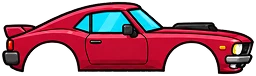
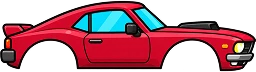
jaya

diff --git a/game.js b/game.js
@@ -232,6 +232,7 @@ class GameScene extends Phaser.Scene {
         this._levelTurning     = false;  // between the last catch and the next level
         this.wantedCards       = [];     // the intro's cards, while they are up
         this.caughtCards       = [];     // per lane: its CAUGHT card / badge
+        this.perps             = [];     // per lane: the caught villain, cuffed, in front of the cars
         this._briefing         = false;  // the intro's cards are up: no chasing yet
 
         // Layout state for responsive design
@@ -1772,17 +1773,17 @@ class GameScene extends Phaser.Scene {
     // Where lane i's card goes: over its villain, centred on the lane's band,
     // kept inside the villain area. Its badge (the caught marker) stands on
     // the road line where the villain stood.
-    // A CAUGHT getaway car's card goes OVER the stopped cars instead,
-    // centred on the two, its badge standing on the road there.
+    // A CAUGHT getaway car's card goes on the road AHEAD of the stopped cars
+    // instead, as large as the room there allows, and stays (no badge).
     _wantedSpot(i, caught) {
         const W = CONFIG.WANTED || {}, v = (x, d) => (x !== undefined ? x : d);
         const L = this.layoutConfig, p = this.platforms[i];
         const vl = this.villains[i];
-        let A = this.villainArea, over = null;
+        let A = this.villainArea, ahead = false;
         if (caught && vl && vl.isCar && this.carArea && this.cars[i]) {
-            const car = this.cars[i];
-            A = this.carArea;
-            over = ((this._blockedX(i) - vl.carW / 2) + (this._blockedCarX(i) + car.carW / 2)) / 2;
+            const CA = this.carArea, x0 = this._blockedCarX(i) + this.cars[i].carW / 2;
+            A = { x: x0, width: Math.max(0, CA.x + CA.width - x0) };
+            ahead = true;
         }
         if (!A || !p) return null;
         const pad = v(W.EDGE_PAD, 8) * L.platformScale;
@@ -1792,12 +1793,12 @@ class GameScene extends Phaser.Scene {
         const room = Math.max(10, A.width - 2 * pad);
         if (w > room) { w = room; h = w / asp; }
         // Where the villain stands — a getaway car's home, wherever it is now.
-        const cx = over !== null ? over
+        const cx = ahead ? A.x + A.width / 2
                  : vl ? (vl.homeX !== undefined ? vl.homeX : vl.x) : A.x + A.width / 2;
         const x  = Math.max(A.x + pad + w / 2, Math.min(cx, A.x + A.width - pad - w / 2));
         const ground = p.slotY + p.slotSize / 2;
-        const bs = v((W.CATCH || {}).BADGE_SCALE, 0.5);
-        return { x, y: p.slotY, w, h, badgeY: ground - h * bs / 2, badgeScale: bs };
+        const bs = ahead ? 1 : v((W.CATCH || {}).BADGE_SCALE, 0.5);
+        return { x, y: p.slotY, w, h, badgeY: ahead ? p.slotY : ground - h * bs / 2, badgeScale: bs, ahead };
     }
 
     // ONE CARD, built at its spot at full size: the paper, WANTED, the
@@ -1854,15 +1855,16 @@ class GameScene extends Phaser.Scene {
         card.rewardY = fy;
 
         if (caught) {
-            const stamp = this.add.container(0, 0);
-            const cuffs = this.add.graphics();
-            // The cuffs low, on the villain's wrists; the stamp across its face.
-            this._drawCuffs(cuffs, 0, h * 0.15, w * 0.46, C);
-            const st = this.add.text(0, -h * 0.05, C.STAMP_TEXT || 'CAUGHT', font(h * 0.14, C.STAMP_COLOR || '#c62828', {
-                stroke: '#ffffff', strokeThickness: Math.max(2, Math.round(h * 0.02)),
-            })).setOrigin(0.5).setAngle(-14);
-            if (st.width > w * 0.95) st.setScale(w * 0.95 / st.width);
-            stamp.add([cuffs, st]);
+            // A RED CROSS over the photo — this one is done.
+            const stamp = this.add.container(0, -h * 0.02);
+            const x = this.add.graphics();
+            const cw = w * 0.34, chh = h * 0.21, lw = Math.max(3, w * 0.07);
+            for (const [col, wid] of [[0xffffff, lw * 1.5], [hexColor(C.CROSS_COLOR || '#d32f2f'), lw]]) {
+                x.lineStyle(wid, col, 1);
+                x.lineBetween(-cw, -chh, cw, chh);
+                x.lineBetween(-cw, chh, cw, -chh);
+            }
+            stamp.add(x);
             card.add(stamp);
             card.stamp = stamp;
         }
@@ -1896,7 +1898,8 @@ class GameScene extends Phaser.Scene {
         for (const c of [...this.wantedCards, ...this.caughtCards]) {
             if (c && c.scene) { this.tweens.killTweensOf(c); if (c.stamp) this.tweens.killTweensOf(c.stamp); c.destroy(); }
         }
-        this.wantedCards = []; this.caughtCards = [];
+        for (const o of this.perps) if (o && o.scene) { this.tweens.killTweensOf(o); o.destroy(); }
+        this.wantedCards = []; this.caughtCards = []; this.perps = [];
         this._endWantedTimers();
         this._briefing = false;
         for (const en of this.villains) if (en && en.isCar && en.face) en.face.setVisible(true);
@@ -1966,21 +1969,26 @@ class GameScene extends Phaser.Scene {
         });
     }
 
-    // THE CATCH: lane i's card pops up, the cuffs and stamp slam on, `pay`
-    // throws the bounty from the card, and it shrinks to the lane's badge.
-    // Returns how long that takes, ms — or null with the cards switched off.
+    // THE CATCH: in a chase, the villain steps out in front of the stopped
+    // cars and the cuffs go on (_showPerp); then lane i's card pops up ahead
+    // of the cars, the cross slams onto the photo and `pay` throws the bounty
+    // from the card as its bounty line goes. The card stays as the lane's
+    // done marker. Without getaway cars the card shrinks to a badge where the
+    // villain stood. Returns how long it all takes, ms — or null with the
+    // cards switched off.
     _showCaughtCard(i, pay, after = 0) {
         const W = CONFIG.WANTED || {}, C = W.CATCH || {}, v = (x, d) => (x !== undefined ? x : d);
         if (W.ENABLED === false) return null;
+        const perpMs = this._showPerp(i, after);
         const card = this._makeWantedCard(i, true);
         if (!card) return null;
         const old = this.caughtCards[i];
         if (old && old.scene) old.destroy();
         this.caughtCards[i] = card;
 
-        const d = after + v(C.DELAY_MS, 200), pop = v(C.POP_MS, 260), stampMs = v(C.STAMP_MS, 220);
-        const hold = v(C.HOLD_MS, 700), shrink = v(C.SHRINK_MS, 300);
-        const spot = card.spot;
+        const d = after + perpMs + v(C.DELAY_MS, 200), pop = v(C.POP_MS, 260), stampMs = v(C.STAMP_MS, 220);
+        const hold = v(C.HOLD_MS, 700), spot = card.spot;
+        const shrink = spot.ahead ? 0 : v(C.SHRINK_MS, 300);
         card.setScale(0);
         card.stamp.setScale(2.4).setAlpha(0);
         this.tweens.add({ targets: card, scale: 1, duration: pop, delay: d, ease: 'Back.easeOut' });
@@ -1997,19 +2005,62 @@ class GameScene extends Phaser.Scene {
                 }
             },
         });
-        this.tweens.add({ targets: card, scale: spot.badgeScale, y: spot.badgeY,
-            duration: shrink, delay: d + pop + stampMs + hold, ease: 'Cubic.easeInOut' });
-        return d + pop + stampMs + hold + shrink;
+        if (shrink) {
+            this.tweens.add({ targets: card, scale: spot.badgeScale, y: spot.badgeY,
+                duration: shrink, delay: d + pop + stampMs + hold, ease: 'Cubic.easeInOut' });
+        }
+        return d - after + pop + stampMs + hold + shrink;
     }
 
-    // A caught lane's badge, put straight where it belongs (a rebuild).
+    // A caught lane as it ends up, put straight there (a rebuild): the
+    // cuffed villain in front of the cars, the card with its cross and no
+    // bounty left on it.
     _placeBadge(i) {
         if ((CONFIG.WANTED || {}).ENABLED === false) return;
+        this._showPerp(i, -1);
         const card = this._makeWantedCard(i, true);
         if (!card) return;
         card.setScale(card.spot.badgeScale).setY(card.spot.badgeY);
         for (const o of card.reward || []) o.setVisible(false);   // already paid
         this.caughtCards[i] = card;
+    }
+
+    // THE VILLAIN, OUT OF THE CAR: lane i's villain standing on the road in
+    // front of both stopped cars, centred on them, with the cuffs on — popped
+    // out `after` ms from now and cuffed after it, or put straight there
+    // (`after` < 0, a rebuild). Its head leaves the window. Returns how long
+    // until it is cuffed, ms (0 without a getaway car).
+    _showPerp(i, after) {
+        const V = CONFIG.VILLAIN || {}, PP = (V.CAR || {}).PERP || {}, C = (CONFIG.WANTED || {}).CATCH || {};
+        const v = (x, d) => (x !== undefined ? x : d);
+        const en = this.villains[i], car = this.cars[i], p = this.platforms[i];
+        const key = villainKey(villainIndexFor(this.level));
+        if (PP.ENABLED === false || !en || !en.isCar || !car || !p || !this.textures.exists(key)) return 0;
+        const old = this.perps[i];
+        if (old && old.scene) old.destroy();
+
+        const ground = p.slotY + p.slotSize / 2;
+        const x = ((this._blockedX(i) - en.carW / 2) + (this._blockedCarX(i) + car.carW / 2)) / 2;
+        const perp = this.add.container(x, ground).setDepth(v(PP.DEPTH, 4.5));
+        const img = this.add.image(0, 0, key).setOrigin(0.5, 1);
+        const f = img.frame;
+        const h = Math.min(car.carH * v(PP.H_FRAC, 1.05), this.layoutConfig.slotBandH * v(V.MAX_BAND_FRAC, 0.85));
+        img.setScale(h / f.realHeight);
+        // THE CUFFS, over its middle — its hands.
+        const cuffs = this.add.graphics({ x: 0, y: -h * v(PP.CUFF_AT, 0.4) });
+        this._drawCuffs(cuffs, 0, 0, img.displayWidth * v(PP.CUFF_W, 0.6), C);
+        perp.add([img, cuffs]);
+        this.perps[i] = perp;
+
+        const hide = () => { if (en.face) en.face.setVisible(false); };
+        if (after < 0) { hide(); return 0; }
+        const pop = v(PP.POP_MS, 260), cuffMs = v(PP.CUFF_MS, 220);
+        perp.setScale(0);
+        cuffs.setScale(2.4).setAlpha(0);
+        this.time.delayedCall(after, hide);
+        this.tweens.add({ targets: perp, scale: 1, duration: pop, delay: after, ease: 'Back.easeOut' });
+        this.tweens.add({ targets: cuffs, scale: 1, alpha: 1, duration: cuffMs, delay: after + pop, ease: 'Cubic.easeIn' });
+        return pop + cuffMs;
     }
 
     // ================================================================

diff --git a/config.js b/config.js
@@ -785,6 +785,19 @@ var CONFIG = {
             // centre at X, Y and H tall — the top HEAD_FRAC of the villain's
             // picture, which is the head.
             FACE: { X: 126, Y: 28, H: 40, HEAD_FRAC: 0.55 },
+            // CAUGHT, OUT OF THE CAR: once the cars have stopped, the villain
+            // pops up standing on the road in front of both, centred on them,
+            // and the cuffs slam on over its hands. It stays till the level
+            // ends. Then the card (WANTED.CATCH).
+            PERP: {
+                ENABLED: true,
+                H_FRAC:  1.05,       // its height, as a share of the piggy car's
+                DEPTH:   4.5,        // over both cars
+                CUFF_W:  0.6,        // the cuffs' width, as a share of the villain's
+                CUFF_AT: 0.4,        // their height up it, as a share (its hands)
+                POP_MS:  260,
+                CUFF_MS: 220,
+            },
             // THE LOOK BACK: the driver stays down out of sight — only the
             // window shows — and pops up from the sill to glance back only at
             // milestones: as it gets in (the wanted card landing) and as the
@@ -809,7 +822,7 @@ var CONFIG = {
             CARS: [
                 getawayCarArt(1, 256,  91, 53, [29, 60], [175, 60], { X: 135, Y: 19, H: 38 }),   // dark sedan
                 getawayCarArt(2, 207, 104, 56, [20, 65], [126, 65], { X: 100, Y: 27, H: 36 }),   // yellow city car
-                getawayCarArt(3, 256,  76, 55, [24, 39], [164, 39], { X: 110, Y: 17, H: 30 }),   // red muscle car
+                getawayCarArt(3, 256,  72, 56, [22, 34], [163, 34], { X: 110, Y: 17, H: 30 }),   // red muscle car
                 getawayCarArt(4, 256, 119, 59, [32, 78], [159, 78], { X: 113, Y: 40, H: 40 }),   // green SUV
                 getawayCarArt(5, 256, 100, 58, [28, 63], [173, 63], { X: 135, Y: 27, H: 36 }),   // teal classic
                 getawayCarArt(6, 256,  77, 56, [19, 39], [157, 39], { X: 112, Y: 17, H: 30 }),   // blue sports car
@@ -884,10 +897,12 @@ var CONFIG = {
     // Merging carries on throughout; only the cars wait. A level resumed part
     // way through gets no cards.
     //
-    // When a villain is caught its card comes back with handcuffs and a
-    // CAUGHT stamp slammed over it, the bounty flies from the card to the coin
-    // counter, and the card shrinks to a badge where the villain was caught —
-    // marking the lane done until the level ends.
+    // When a villain is caught (after the cuffed villain steps out —
+    // VILLAIN.CAR.PERP) its card comes back on the road ahead of the stopped
+    // cars, a red cross slams onto its photo, and the bounty flies from the
+    // card to the coin counter as the bounty line goes. The card stays there,
+    // marking the lane done until the level ends. (Without getaway cars it
+    // shrinks to a BADGE_SCALE badge where the villain stood instead.)
     //
     // The card and the cuffs are drawn in code for now; art can replace them.
     WANTED: {
@@ -919,14 +934,13 @@ var CONFIG = {
             DELAY_MS:   200,     // after the villain starts to go (with a
                                  // getaway car: after it is blocked)
             POP_MS:     260,
-            STAMP_MS:   220,     // the cuffs and stamp slamming down
-            HOLD_MS:    700,     // after the stamp, before it shrinks
-            SHRINK_MS:  300,
-            BADGE_SCALE: 0.8,    // the done marker over the stopped cars, as a share of the card
+            STAMP_MS:   220,     // the cross slamming onto the photo
+            HOLD_MS:    700,     // after the cross, before the next level can turn
+            SHRINK_MS:  300,     // (no getaway cars) shrinking to its badge
+            BADGE_SCALE: 0.8,    // (no getaway cars) the badge, as a share of the card
             SHAKE_MS:   120,
             SHAKE:      0,       // camera shake as the stamp lands (0 = none)
-            STAMP_TEXT: 'CAUGHT',
-            STAMP_COLOR:'#c62828',
+            CROSS_COLOR:'#d32f2f',   // the cross over the photo
             CUFF_COLOR: '#b8c0c8',
             CUFF_DARK:  '#3a4048',
         },
